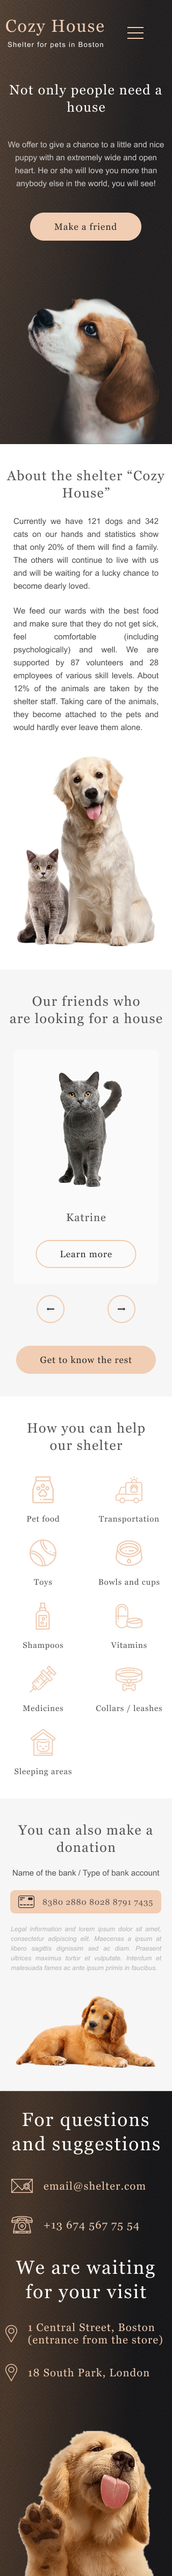
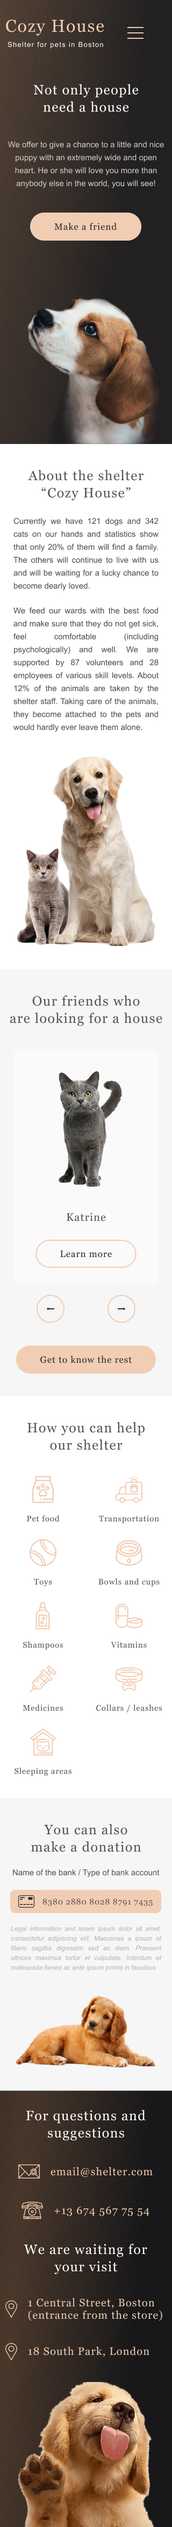
fix: main page style css

diff --git a/shelter/pages/main/main.scss b/shelter/pages/main/main.scss
@@ -116,7 +116,7 @@ p {
     margin-top: 10px;
     color: $color-light-xl;
     font-size: 13px;
-    letter-spacing: 0.1em;
+    letter-spacing: 0.14em;
     line-height: 110%;
     text-align: center;
     font-weight: 400;
@@ -331,6 +331,7 @@ p {
     flex-direction: column;
     align-items: center;
     padding-top: 80px;
+    padding-bottom: 47px;
 }
 
 .help__title {
@@ -348,7 +349,7 @@ margin: 0 410px;
 .help__element {
     margin: 0 60px;
     text-align: center;
-    margin-bottom: 50px;
+    margin-bottom: 53px;
 }
 
 .help__text {
@@ -363,7 +364,7 @@ margin: 0 410px;
 
 .addition__wrapper {
     display: flex;
-    padding: 135px 120px 100px 142px;
+    padding: 82px 120px 100px 142px;
 
 }
 
@@ -383,7 +384,7 @@ margin: 0 410px;
 
 .addition__title {
     color: $color-dark-l;
-    margin-right: 82px;
+    padding-right: 82px;
 }
 
 .addition__subtitle {
@@ -541,7 +542,7 @@ margin: 0 410px;
 
     .not-only__image {
         width: 573px;
-        margin-top: 35px;
+        margin-top: 37px;
         margin-left: 137px;
     }
 
@@ -554,18 +555,22 @@ margin: 0 410px;
     .about__text {
         display: flex;
         flex-direction: column;
-        padding-top: 83px;
-        padding-left: 136px;
-        padding-right: 132px;
+        padding-top: 81px;
+        padding-left: 140px;
+        padding-right: 136px;
     }
 
     .about__title {
-        margin-right: 138px;
+        margin-right: 126px;
     }
 
     .about__image {
         order: 2;
         margin-top: 78px;
+    }
+
+    .slider {
+        margin-top: 61px;
     }
 
     .slider__item:nth-child(4) {
@@ -587,12 +592,8 @@ margin: 0 410px;
     .help__element {
         width: 170px;
         height: 113px;
-        margin: 0px 33px;
-        margin-bottom: 56px;
-    }
-
-    .help__items {
-        padding-bottom: 43px;
+        margin: 0px 30px;
+        margin-bottom: 54px;
     }
 
     .addition__wrapper {
@@ -613,7 +614,7 @@ margin: 0 410px;
         padding-left: 24px;
     }
     .footer__image {
-        margin-top: 63px;
+        margin-top: 58px;
         object-fit: none;
     }
 
@@ -661,6 +662,7 @@ margin: 0 410px;
     }
 
     .not-only__title {
+        margin: 0 20px;
         text-align: center;
         letter-spacing: 0.06em;
     }
@@ -690,7 +692,7 @@ margin: 0 410px;
     }
 
     .about__title {
-        margin: 0;
+        margin: 0 20px;
         text-align: center;
         margin-top: 42px;
     }
@@ -738,6 +740,7 @@ margin: 0 410px;
 
     .help__wrapper {
         padding-top: 41px;
+        padding-bottom: 0;
     }
 
     .help__title {
@@ -774,7 +777,8 @@ margin: 0 410px;
     }
 
     .addition__title {
-        margin-right: 0px;
+        padding-right: 0;
+        margin: 0 26px;
         text-align: center;
     }
 
@@ -811,7 +815,7 @@ margin: 0 410px;
     }
 
     .footer__title {
-        font-size: 35px;
+        font-size: 25px;
     }
 
     .footer__contacts {
@@ -823,23 +827,28 @@ margin: 0 410px;
         margin-top: 20px;
     }
 
+    .footer__location h3 {
+margin: 0 20px;
+    }
+
     .footer__icon {
         margin-right: 19px;
     }
 
     .footer__contact {
-        margin-left: 10px;
+        margin-left: 28px;
     }
 
     .footer__image {
         width: 260px;
         object-fit: unset;
         margin: 0 20px;
-        margin-top: 85px;
+        margin-top: 37px;
     }
 
     .footer__address {
         text-align: left;
+        padding-top: 39px;
     }
 
 }

diff --git a/shelter/pages/main/main.css b/shelter/pages/main/main.css
@@ -86,7 +86,7 @@ p {
   margin-top: 10px;
   color: #FFFFFF;
   font-size: 13px;
-  letter-spacing: 0.1em;
+  letter-spacing: 0.14em;
   line-height: 110%;
   text-align: center;
   font-weight: 400; }
@@ -266,7 +266,8 @@ p {
   display: flex;
   flex-direction: column;
   align-items: center;
-  padding-top: 80px; }
+  padding-top: 80px;
+  padding-bottom: 47px; }
 
 .help__title {
   text-align: center;
@@ -281,7 +282,7 @@ p {
 .help__element {
   margin: 0 60px;
   text-align: center;
-  margin-bottom: 50px; }
+  margin-bottom: 53px; }
 
 .help__text {
   font-family: Georgia;
@@ -293,7 +294,7 @@ p {
 
 .addition__wrapper {
   display: flex;
-  padding: 135px 120px 100px 142px; }
+  padding: 82px 120px 100px 142px; }
 
 .addition__image {
   margin-top: 9px;
@@ -309,7 +310,7 @@ p {
 
 .addition__title {
   color: #545454;
-  margin-right: 82px; }
+  padding-right: 82px; }
 
 .addition__subtitle {
   margin-top: 21px;
@@ -443,7 +444,7 @@ p {
 
   .not-only__image {
     width: 573px;
-    margin-top: 35px;
+    margin-top: 37px;
     margin-left: 137px; }
 
   .about__wrapper {
@@ -454,16 +455,19 @@ p {
   .about__text {
     display: flex;
     flex-direction: column;
-    padding-top: 83px;
-    padding-left: 136px;
-    padding-right: 132px; }
+    padding-top: 81px;
+    padding-left: 140px;
+    padding-right: 136px; }
 
   .about__title {
-    margin-right: 138px; }
+    margin-right: 126px; }
 
   .about__image {
     order: 2;
     margin-top: 78px; }
+
+  .slider {
+    margin-top: 61px; }
 
   .slider__item:nth-child(4) {
     display: none; }
@@ -480,11 +484,8 @@ p {
   .help__element {
     width: 170px;
     height: 113px;
-    margin: 0px 33px;
-    margin-bottom: 56px; }
-
-  .help__items {
-    padding-bottom: 43px; }
+    margin: 0px 30px;
+    margin-bottom: 54px; }
 
   .addition__wrapper {
     padding: 0px;
@@ -502,7 +503,7 @@ p {
     padding-left: 24px; }
 
   .footer__image {
-    margin-top: 63px;
+    margin-top: 58px;
     object-fit: none; }
 
   .footer__wrapper {
@@ -537,6 +538,7 @@ p {
     padding-top: 60px; }
 
   .not-only__title {
+    margin: 0 20px;
     text-align: center;
     letter-spacing: 0.06em; }
 
@@ -560,7 +562,7 @@ p {
     padding: 0; }
 
   .about__title {
-    margin: 0;
+    margin: 0 20px;
     text-align: center;
     margin-top: 42px; }
 
@@ -598,7 +600,8 @@ p {
     margin-top: 42px; }
 
   .help__wrapper {
-    padding-top: 41px; }
+    padding-top: 41px;
+    padding-bottom: 0; }
 
   .help__title {
     margin: 0 20px; }
@@ -628,7 +631,8 @@ p {
     padding-left: 0px; }
 
   .addition__title {
-    margin-right: 0px;
+    padding-right: 0;
+    margin: 0 26px;
     text-align: center; }
 
   .addition__subtitle {
@@ -658,7 +662,7 @@ p {
     text-align: center; }
 
   .footer__title {
-    font-size: 35px; }
+    font-size: 25px; }
 
   .footer__contacts {
     margin-right: 0; }
@@ -667,19 +671,23 @@ p {
     margin-right: 0;
     margin-top: 20px; }
 
+  .footer__location h3 {
+    margin: 0 20px; }
+
   .footer__icon {
     margin-right: 19px; }
 
   .footer__contact {
-    margin-left: 10px; }
+    margin-left: 28px; }
 
   .footer__image {
     width: 260px;
     object-fit: unset;
     margin: 0 20px;
-    margin-top: 85px; }
+    margin-top: 37px; }
 
   .footer__address {
-    text-align: left; } }
+    text-align: left;
+    padding-top: 39px; } }
 
 /*# sourceMappingURL=main.css.map */
